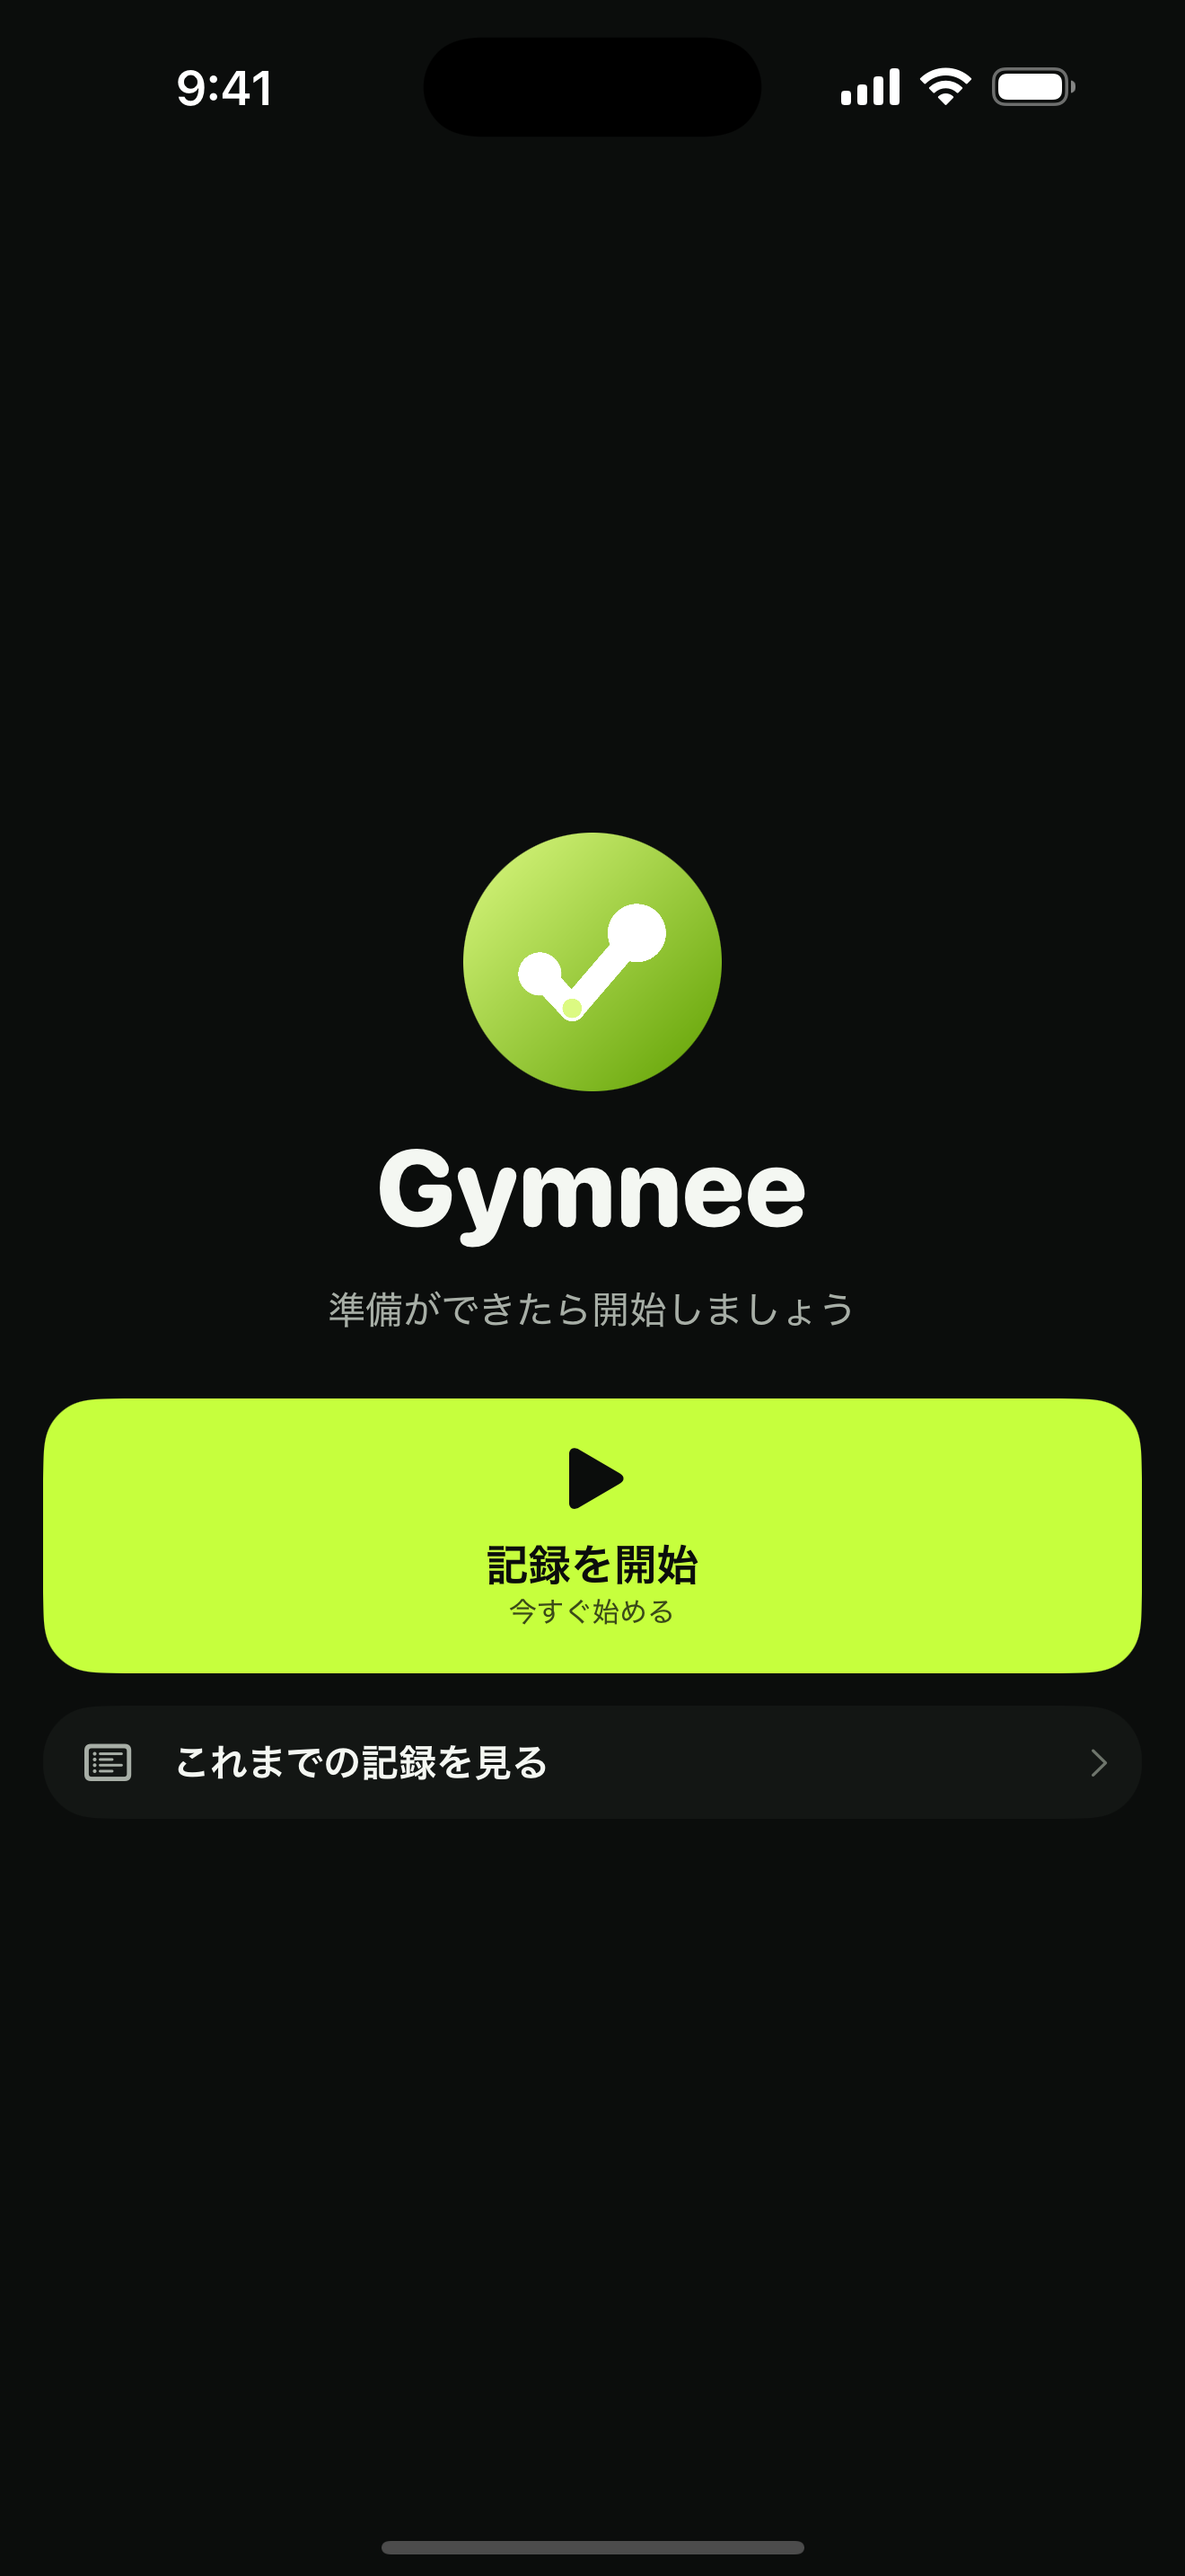
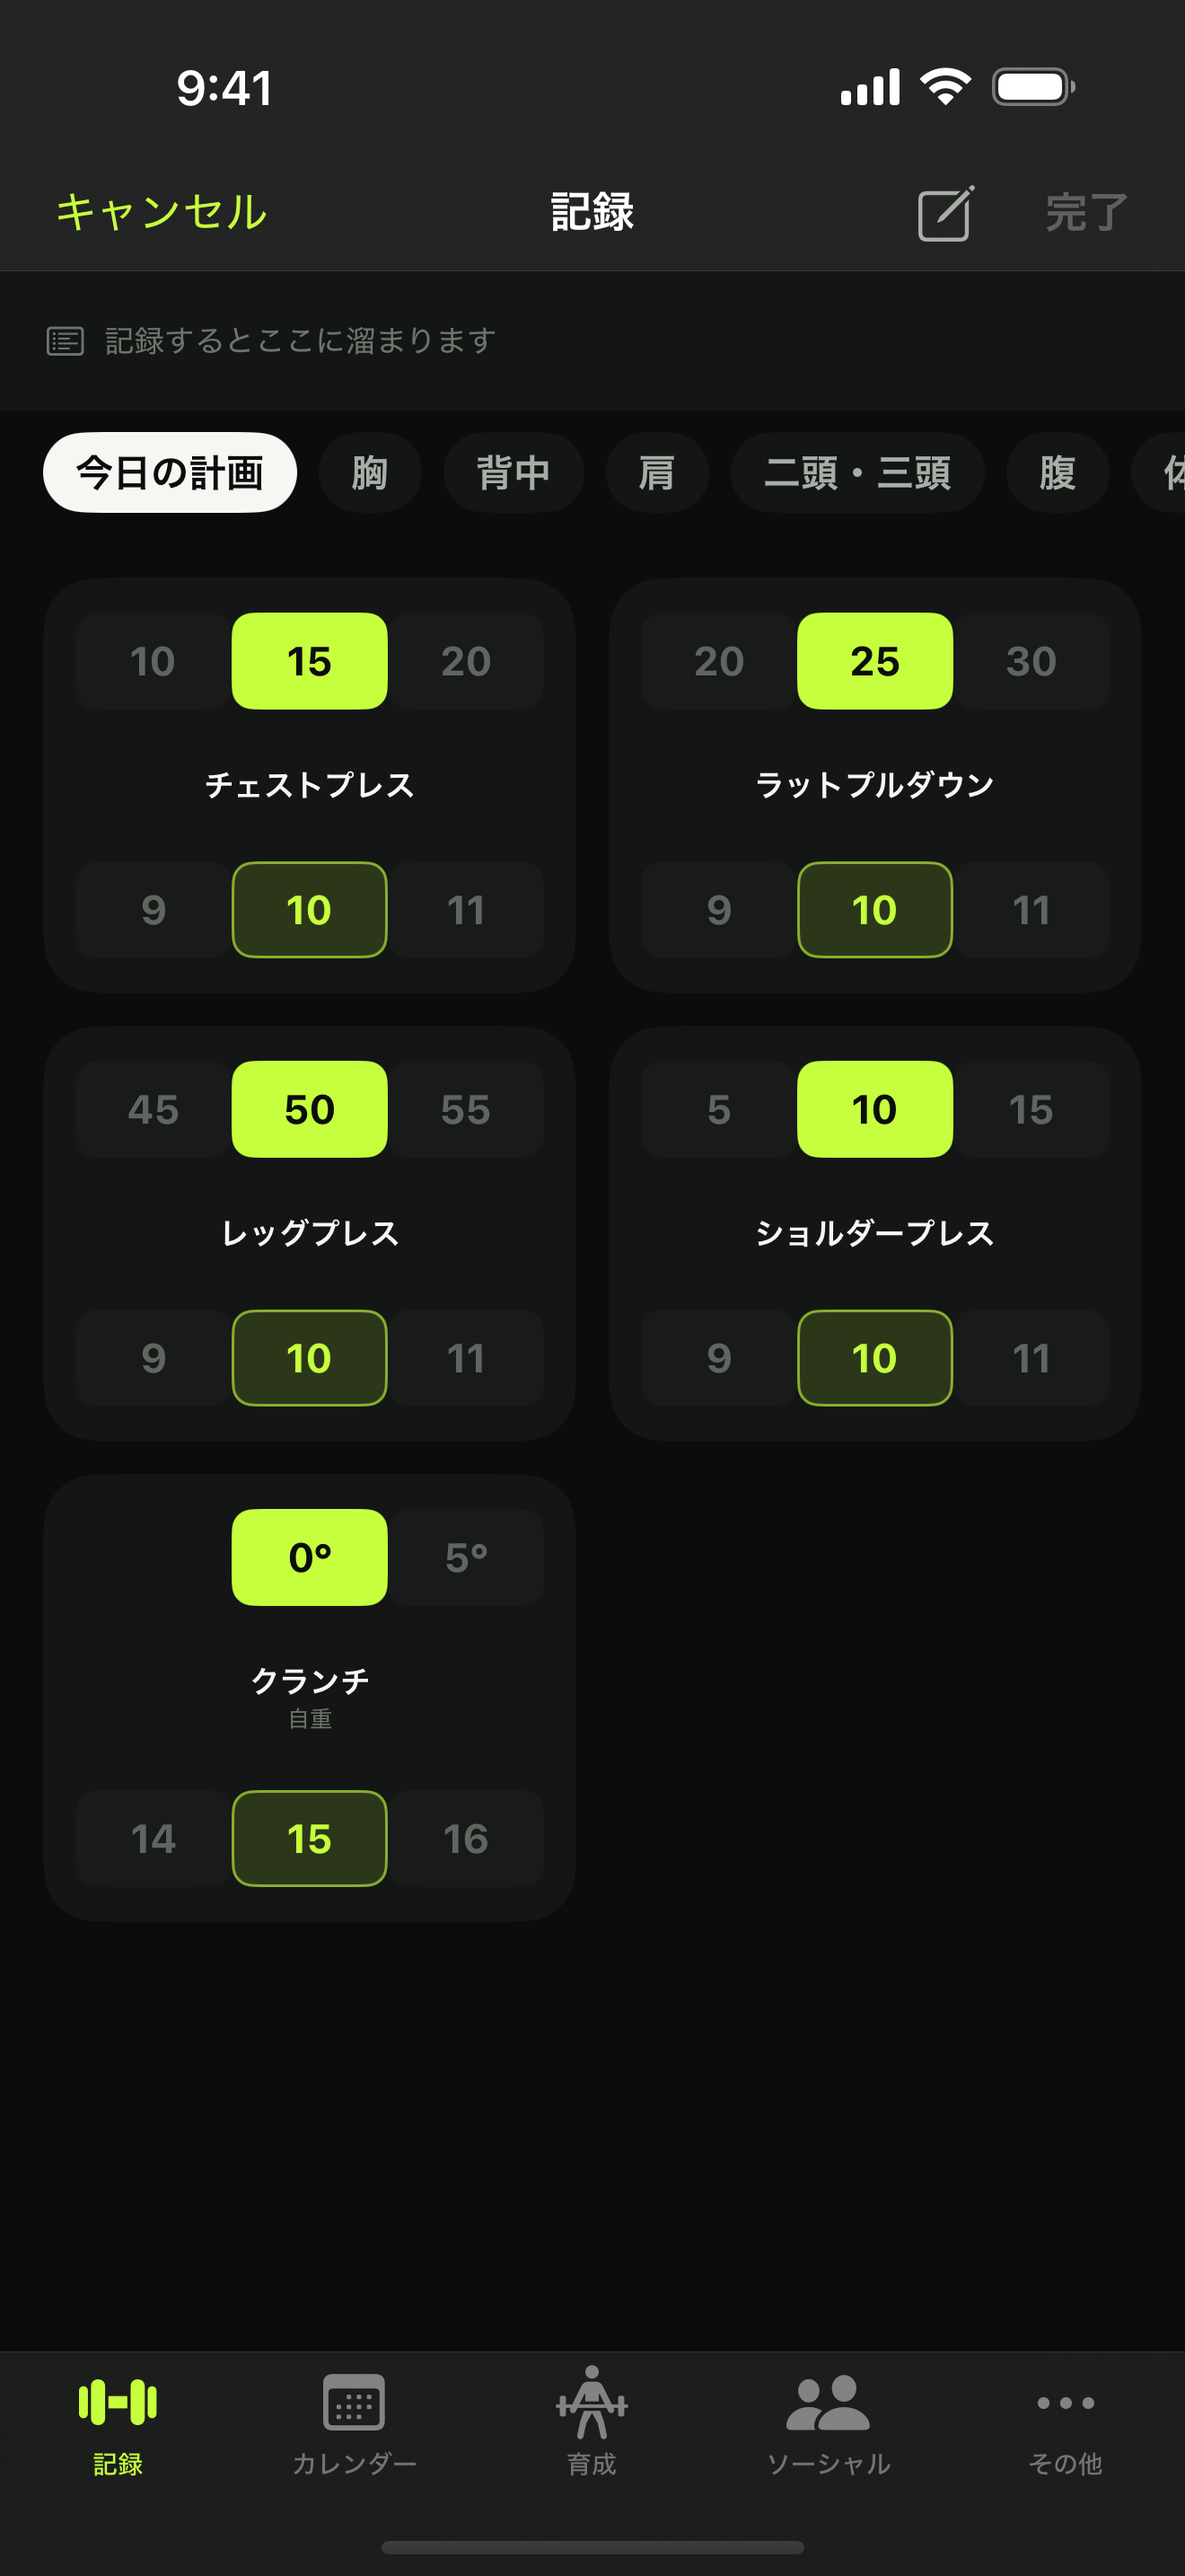
docs(ストア): 掲載とLPを育成軸に寄せ、廃止済み機能の記述を消す
- スクショ: 育成を1枚目、記録を2枚目に入れ替える。記録画面ははじめてのメニューの
  計画カードが並んだ状態で撮り直す(旧素材はほぼ黒い開始ゲートだった)
- 1.6.0 向けの掲載案: サブタイトルを「タップで筋トレ記録、キャラが育つジム習慣」へ。
  キーワードはキャラを落としてカレンダーを戻し、100字に収めるためメモを落とす。
  プロモーションテキストと What's New、説明文に、はじめてのメニューの1行を足す
- 育成キーワードが 1.5.1 で反映済みなのに「未反映」と書いたままだった記録を実態に直す
- LP(gymnee.app): チェックインの節を育成の節に差し替える。Siri・自動チェックイン・
  Watch でのチェックインなど、もう無い機能の記述を消す
- build.sh の完了メッセージが枚数を 7 と固定表示していたのを実数にする

Refs #123

Claude-Session: https://claude.ai/code/session_01GDWi5YKu5mExAHp4Ek25Ji

diff --git a/docs/index.html b/docs/index.html
@@ -4,9 +4,9 @@
 <meta charset="UTF-8">
 <meta name="viewport" content="width=device-width, initial-scale=1">
 <title>Gymnee — タップだけで筋トレ記録。続けるためのジム記録アプリ</title>
-<meta name="description" content="重量も回数もタップするだけで記録できる筋トレアプリ。週の計画はAIが提案、友達と応援し合って続けられます。ジムを変えても記録は1本のまま。個人開発のiPhoneアプリ、App Store で公開中。">
+<meta name="description" content="重量も回数もタップするだけで記録でき、続けるほどキャラが育つ筋トレアプリ。週の計画はAIが提案、友達と応援し合って続けられます。ジムを変えても記録は1本のまま。個人開発のiPhoneアプリ、App Store で公開中。">
 <meta property="og:title" content="Gymnee — 筋トレの記録は、タップだけ。">
-<meta property="og:description" content="タップするだけで記録、週の計画はAIが提案、友達と応援し合って続けられる筋トレアプリ。App Store で公開中。">
+<meta property="og:description" content="タップするだけで記録、続けるほどキャラが育つ。週の計画はAIが提案、友達と応援し合って続けられる筋トレアプリ。App Store で公開中。">
 <meta property="og:image" content="assets/gymnee-icon.png">
 <meta name="theme-color" content="#0B0D0C">
 <link rel="icon" href="assets/favicon.ico" sizes="any">
@@ -251,6 +251,7 @@ footer .cp{width:100%;border-top:1px solid var(--line);padding-top:20px;color:va
     </div>
     <div class="trustline">
       <span class="pill">タップだけで記録</span>
+      <span class="pill">記録でキャラが育つ</span>
       <span class="pill">週の計画はAIが提案</span>
       <span class="pill">友達と続けられる</span>
       <span class="pill">ジムを変えても記録は1本</span>
@@ -315,7 +316,7 @@ footer .cp{width:100%;border-top:1px solid var(--line);padding-top:20px;color:va
       <p>種目ごとの重量の伸び、部位のバランス、自己ベストの履歴をグラフで確認できます。感覚ではわからない変化がデータで見えるので、伸び悩んだときの手がかりになります。次に挙げる重量の目安も表示されます。</p>
       <ul class="feat-list">
         <li>種目別グラフ：推定1RMの推移と「次回の目安」を表示</li>
-        <li>ヒートマップ：ジム活の頻度と部位バランスをひと目で確認</li>
+        <li>ヒートマップ：トレーニングの頻度と部位バランスをひと目で確認</li>
         <li>実績：総挙上量や連続週数が続けた分だけ貯まる</li>
         <li>CSV書き出し：記録はいつでも手元に取り出せます</li>
       </ul>
@@ -328,7 +329,7 @@ footer .cp{width:100%;border-top:1px solid var(--line);padding-top:20px;color:va
   <div class="wrap feat-row rev reveal">
     <div class="feat-text">
       <h3>友達と応援し合うから、<span class="lime">続けられる。</span></h3>
-      <p>招待リンクを送るだけで、友達とつながれます。チェックインや自己ベストの更新がお互いのフィードに流れて、「応援」を送り合えます。見ている人がいると、サボりにくくなります。</p>
+      <p>招待リンクを送るだけで、友達とつながれます。ワークアウトや自己ベストの更新がお互いのフィードに流れて、「応援」を送り合えます。見ている人がいると、サボりにくくなります。</p>
       <ul class="feat-list">
         <li>招待リンク：送るだけでお互いにフォロー</li>
         <li>合トレ：一緒に行った相手をタグ付けして記録に残す</li>
@@ -342,15 +343,15 @@ footer .cp{width:100%;border-top:1px solid var(--line);padding-top:20px;color:va
 <section class="feat" style="padding-top:0">
   <div class="wrap feat-row reveal">
     <div class="feat-text">
-      <h3>写真を撮るだけで<span class="lime">チェックイン。</span></h3>
-      <p>ジムに着いたら写真を一枚。GPSがどこのジムかを自動で選んで、ジム活として記録します。出張先でも引っ越し先でも友達のジムでも、記録は同じカレンダーにつながっていきます。</p>
+      <h3>積み上げた記録が、<span class="lime">キャラになる。</span></h3>
+      <p>記録するとテストステロンパワーが貯まり、キャラのレベルが上がります。続けるほど姿が変わり、部屋にトレーニング器具が増えていきます。強くなるのは現実のトレーニングだけ。サボった分だけ育たないから、今日もう1セットやる理由になります。</p>
       <ul class="feat-list">
-        <li>ジムの自動選択：GPSが近くのジムを判定。初めてのジムは地図から登録</li>
-        <li>自動チェックイン：いつものジムに近づくと通知で提案</li>
-        <li>Apple Watch・Siri：「ジムに着いた」のひと言でも記録できます</li>
+        <li>成長の見える化：記録を終えるたびに、その1回で何が育ったかを表示</li>
+        <li>遠征：貯めたパワーでキャラを送り出すと、おみやげを持って帰ってくる</li>
+        <li>着せ替え：スキン・髪型・アクセサリー・ペット</li>
       </ul>
     </div>
-    <div class="feat-visual"><div class="phone"><img src="assets/screens/04-checkin.png" loading="lazy" alt="写真チェックイン画面" width="700" height="1521"></div></div>
+    <div class="feat-visual"><div class="phone"><img src="assets/screens/11-character.png" loading="lazy" alt="記録で育つキャラの部屋" width="700" height="1521"></div></div>
   </div>
 </section>
 
@@ -368,7 +369,7 @@ footer .cp{width:100%;border-top:1px solid var(--line);padding-top:20px;color:va
     <div class="inner">
       <div>
         <h3>サボった日も、<br><span class="lime">続いた日も、残る。</span></h3>
-        <p>ジム活もワークアウトも、ぜんぶカレンダーに。マスが埋まっていくのを見てると、不思議ともう一回行くか、という気になります。連続が途切れそうな日は、夜にそっと教えてくれます。</p>
+        <p>ワークアウトは、ぜんぶカレンダーに。マスが埋まっていくのを見てると、不思議ともう一回行くか、という気になります。連続が途切れそうな日は、夜にそっと教えてくれます。</p>
       </div>
       <div class="heatmap" id="heatmap" aria-hidden="true"></div>
     </div>
@@ -391,7 +392,7 @@ footer .cp{width:100%;border-top:1px solid var(--line);padding-top:20px;color:va
       <div class="phone"><img src="assets/screens/10-ai-plan.png" loading="lazy" alt="AI計画チャット" width="700" height="1417"></div>
       <div class="phone"><img src="assets/screens/03-analytics.png" loading="lazy" alt="分析" width="700" height="1521"></div>
       <div class="phone"><img src="assets/screens/09-profile.png" loading="lazy" alt="実績" width="700" height="1521"></div>
-      <div class="phone"><img src="assets/screens/04-checkin.png" loading="lazy" alt="チェックイン" width="700" height="1521"></div>
+      <div class="phone"><img src="assets/screens/11-character.png" loading="lazy" alt="育成" width="700" height="1521"></div>
       <div class="phone"><img src="assets/screens/05-social-feed.png" loading="lazy" alt="ソーシャル" width="700" height="1521"></div>
       <div class="phone"><img src="assets/screens/07-share-card.png" loading="lazy" alt="共有カード" width="700" height="1521"></div>
       <div class="phone"><img src="assets/screens/08-body-metrics.png" loading="lazy" alt="身体メトリクス" width="700" height="1521"></div>
@@ -411,9 +412,7 @@ footer .cp{width:100%;border-top:1px solid var(--line);padding-top:20px;color:va
       <div class="card"><div class="ic">🏆</div><h4>実績</h4><p>続けた分だけ貯まる。通知は送りません</p></div>
       <div class="card"><div class="ic">🎴</div><h4>共有カード</h4><p>今日の成果を1枚の画像にして共有</p></div>
       <div class="card"><div class="ic">📅</div><h4>先月のまとめ</h4><p>月ごとの成果をカードで振り返り</p></div>
-      <div class="card"><div class="ic">🗣</div><h4>Siri</h4><p>「ジムに着いた」のひと言でジム活を記録</p></div>
-      <div class="card"><div class="ic">📍</div><h4>自動チェックイン</h4><p>いつものジムに近づくと通知で提案</p></div>
-      <div class="card"><div class="ic">⌚</div><h4>Apple Watch</h4><p>手首からそのままチェックイン</p></div>
+      <div class="card"><div class="ic">⌚</div><h4>Apple Watch</h4><p>連続日数と今週の達成を手首で確認</p></div>
       <div class="card"><div class="ic">❤</div><h4>体重・体組成</h4><p>ヘルスケアと自動で同期</p></div>
       <div class="card"><div class="ic">📷</div><h4>進捗写真</h4><p>ビフォーアフターを比較。既定は非公開</p></div>
       <div class="card"><div class="ic">📤</div><h4>CSV書き出し</h4><p>記録はいつでも取り出せます</p></div>

diff --git a/docs/release_information/store_panels/template.html b/docs/release_information/store_panels/template.html
@@ -78,18 +78,18 @@ h1 .lime{color:var(--lime);text-shadow:0 0 70px rgba(199,255,61,.45)}
 // 見出しの『』内はライム表示。chip は {pos:"tl"|"br", ov, big}。
 const PANELS = {
   "01": {
-    eyebrow: "TAP TO LOG",
-    img: "screens/02-record.png",
-    h: "筋トレの記録は\n『タップだけ。』",
-    sub: "前回の重量が選ばれた状態で開く。数字を打たずに1セット記録",
-    chip: { pos: "br", ov: "SET LOG", big: "1タップ" }
-  },
-  "02": {
     eyebrow: "GROW YOUR CHARACTER",
     img: "screens/11-character.png",
     h: "積み上げた記録が\n『キャラになる。』",
     sub: "筋トレするほどパワーが貯まり、続けるほど姿が変わる",
     chip: { pos: "br", ov: "LEVEL", big: "Lv.3 →" }
+  },
+  "02": {
+    eyebrow: "TAP TO LOG",
+    img: "screens/02-record.png",
+    h: "筋トレの記録は\n『タップだけ。』",
+    sub: "初日からメニュー入り。重量が選ばれた状態で、数字を打たずに1セット記録",
+    chip: { pos: "br", ov: "SET LOG", big: "1タップ" }
   },
   "03": {
     eyebrow: "AI WEEKLY PLAN",
